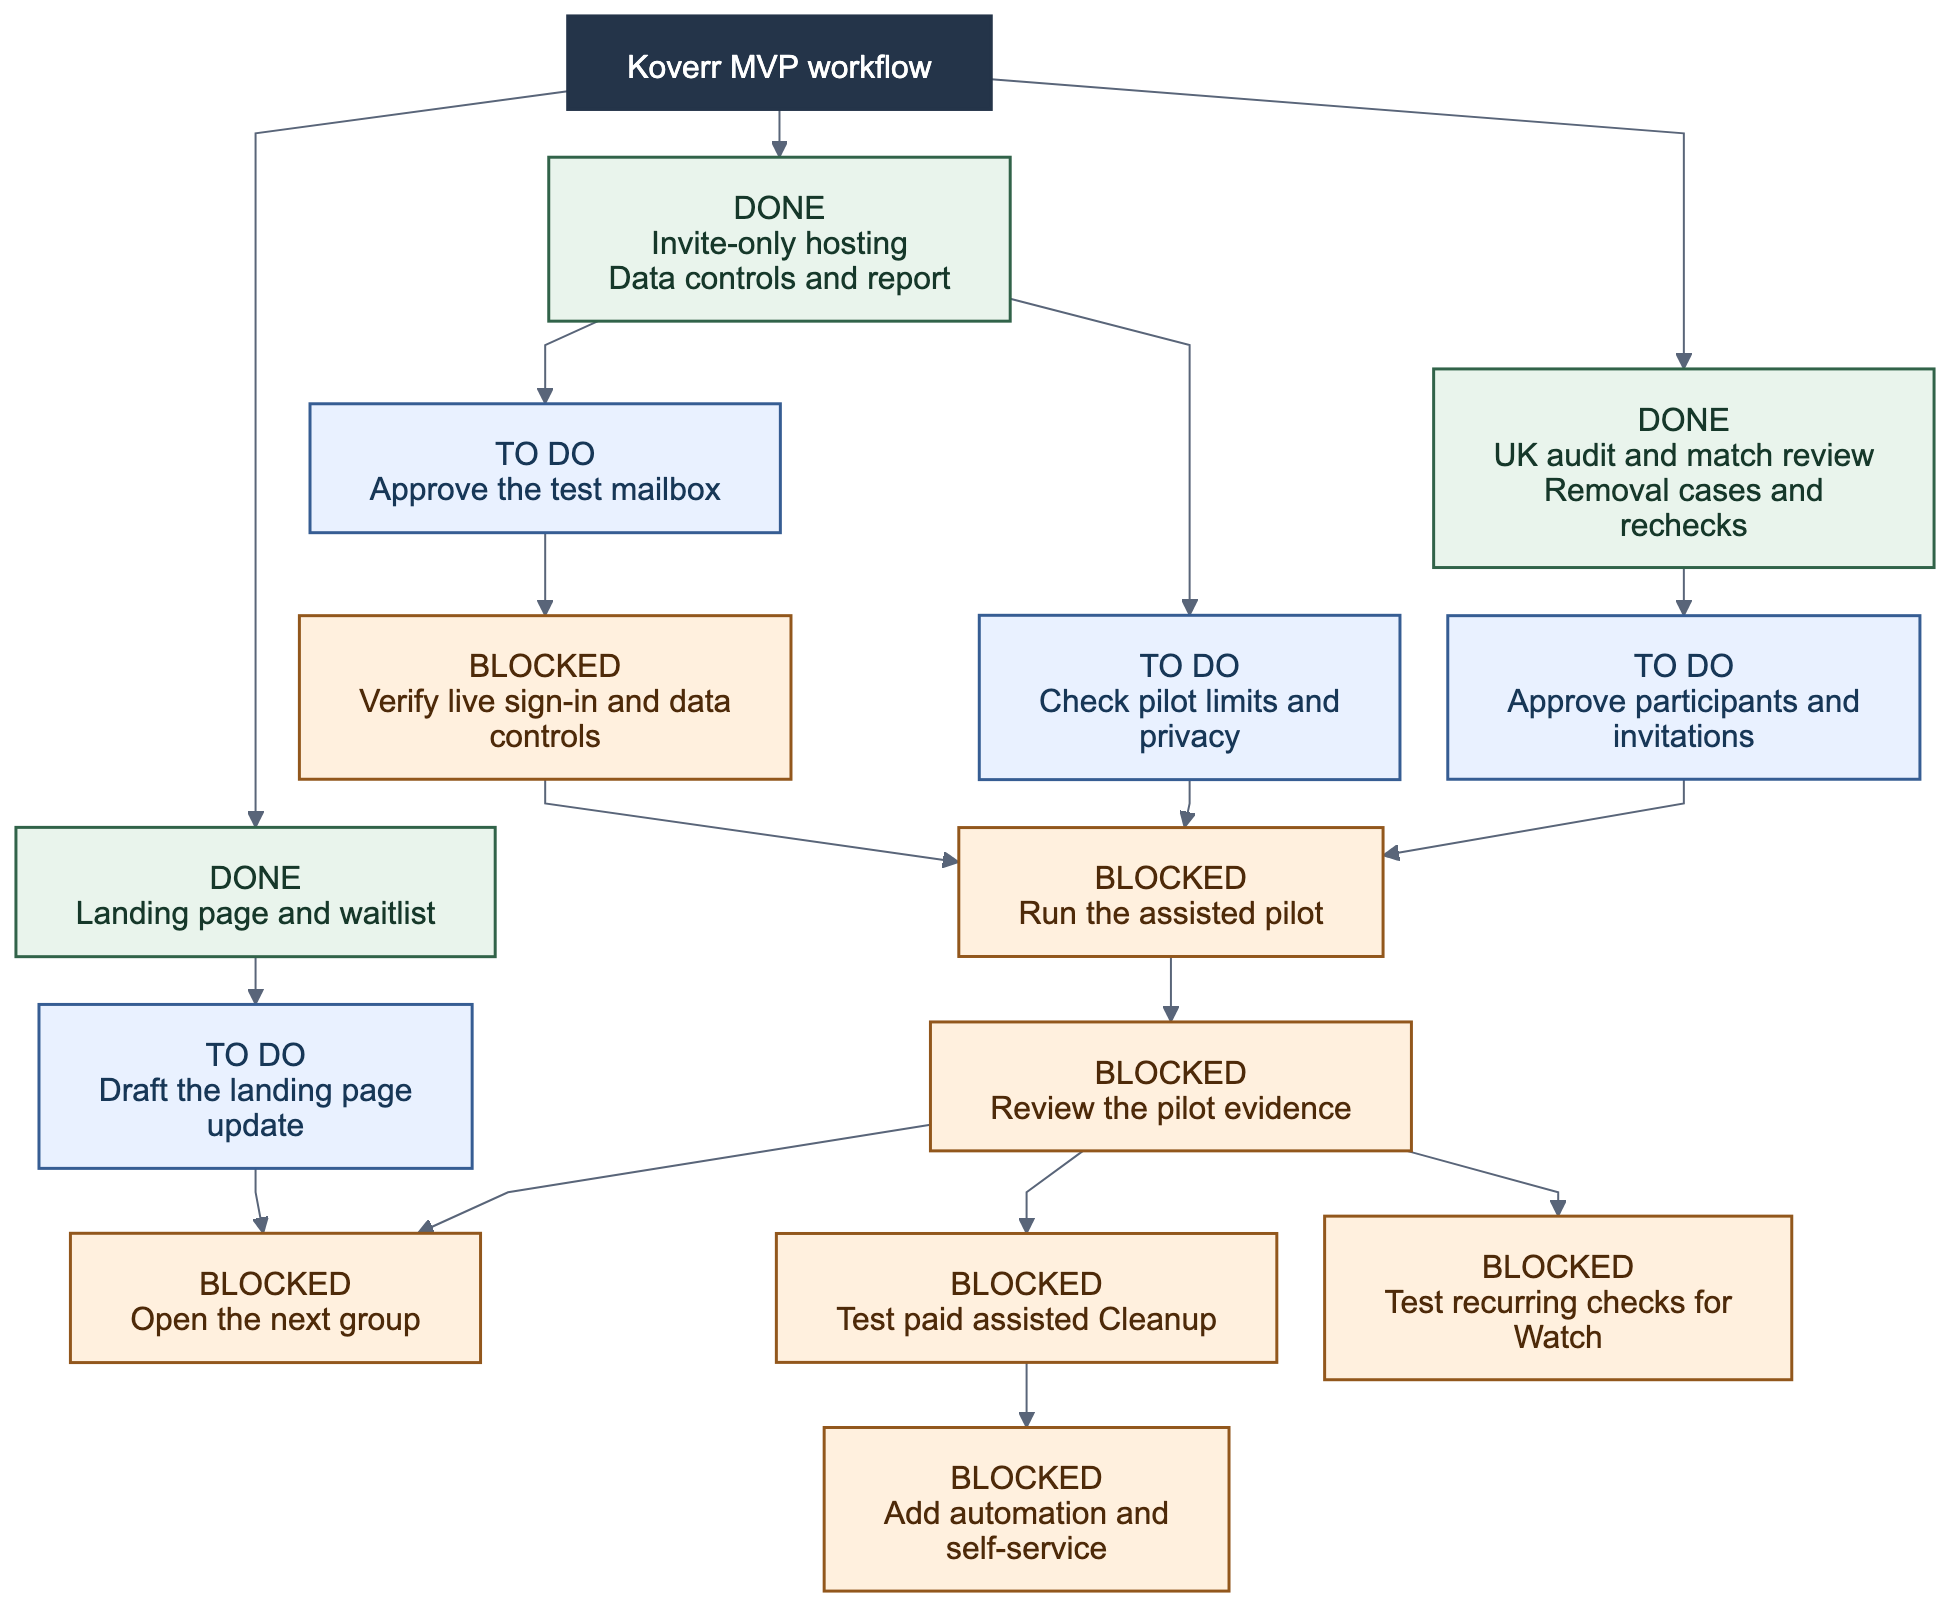
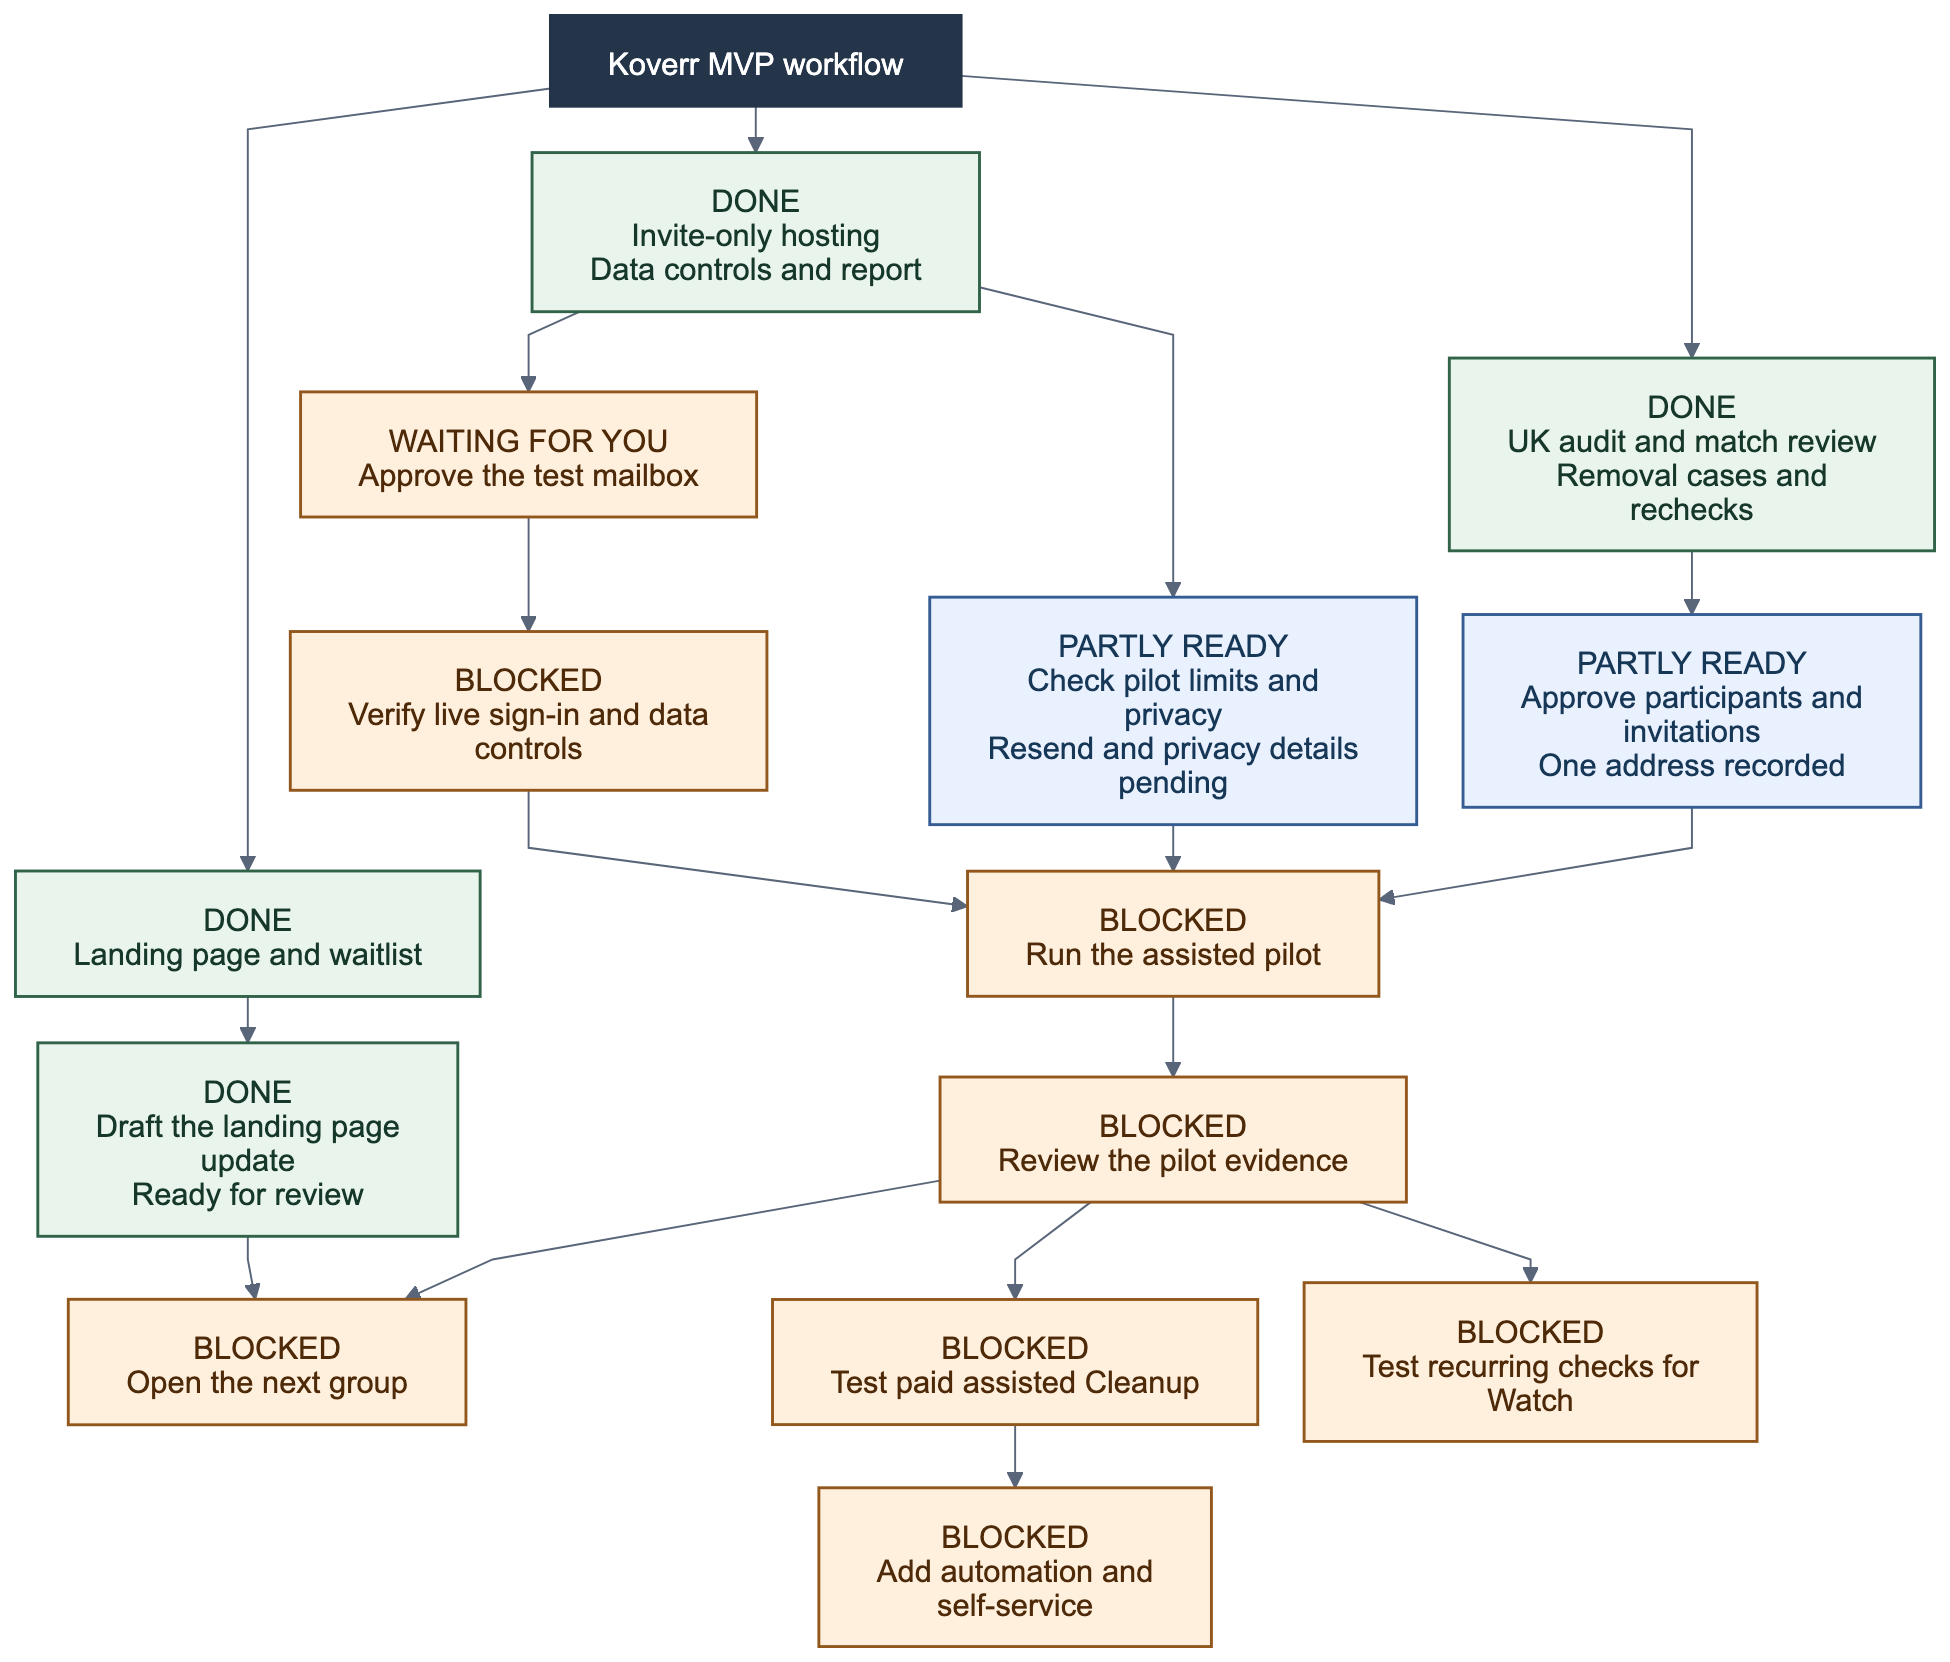
Record pilot readiness and draft the UK landing update

diff --git a/MVP/pilot-readiness.md b/MVP/pilot-readiness.md
@@ -1,0 +1,48 @@
+# Koverr pilot readiness review
+
+Checked on 24 November 2026. The invite-only app is live. The table shows the status of the four actions in the [MVP workflow](mvp-workflow.md).
+
+| Action | Status | Next input |
+| --- | --- | --- |
+| Approve the test mailbox | Waiting | Provide a separate address and approve one live sign-in code. |
+| Approve participants and invitations | One address recorded in the private shortlist. The invitation draft is ready. | Approve sending to that address after the test passes. Add further participants if you want a larger group. |
+| Check pilot limits and privacy | Cloudflare and Supabase checks are complete. Custom SMTP is enabled. The privacy review found gaps. | Confirm Resend usage. Confirm the privacy details and the ICO fee outcome. |
+| Draft the landing page update | Complete. The copy is ready for review. | Approve the copy before the next group opens. [Landing draft](landing-pilot-draft.md) |
+
+## Service checks
+
+| Service | What the dashboard showed | What to do |
+| --- | --- | --- |
+| Cloudflare Workers | The account showed 792 of 100,000 requests used that UTC day. | Use the existing Worker. Check the account limit again before adding a large group. [Cloudflare limits](https://developers.cloudflare.com/workers/platform/pricing/) |
+| Supabase | The project was healthy. Free-plan usage showed 27 of 500 MB of database storage and 0 of 50,000 monthly active users. | Use the existing project. Check its status on the day of the pilot. [Supabase pricing](https://supabase.com/pricing) |
+| Supabase Auth | Custom SMTP was on and used `smtp.resend.com`. Auth allows 30 emails per hour and a 60-second minimum interval per user. | Start with one test. Allow one resend if needed. Plan up to twelve code emails for one test mailbox and five participants with one retry each. [Auth rate limits](https://supabase.com/docs/guides/auth/rate-limits) |
+| Resend | The browser reached the login page. Current account usage and sender verification need an account check. The public Free plan lists 100 transactional emails a day and 3,000 a month. | Sign in to the existing account. Check transactional usage and confirm the sending domain shows Verified. Keep paid overages off. [Resend emails](https://resend.com/emails) · [Resend domains](https://resend.com/domains) · [Resend pricing](https://resend.com/pricing) |
+
+Use the existing inbox for manual invitations. Reserve Resend for sign-in codes. The pilot target is £0 in additional service charges, within the existing plan limits.
+
+## Privacy notice review
+
+The published notice explains email verification, saved audit information, the 90-day audit expiry, and account export and deletion. It names Supabase and Resend. The instructions direct invited users to reply to their invitation. [Published notice](https://koverr-mvp.uceiond.workers.dev/app/privacy/)
+
+Confirm these details before recruiting the participant group.
+
+| Item | What you need to confirm |
+| --- | --- |
+| Controller and contact | Give the legal name of the person or organisation that runs Koverr. Give a monitored privacy address that users can reach without an invitation. |
+| Use of personal data | Confirm the purposes and lawful basis for account operation, the audit, and pilot measurement. Check the retention period for roster entries, provider logs, and backups. |
+| Providers and user rights | Confirm which providers receive data and whether any transfers need to be described. Add the route to exercise privacy rights and contact the ICO. |
+| ICO fee | Complete the free self-assessment. Save the result. Follow the payment instructions if the fee applies. |
+
+Use the confirmed details to update the app privacy notice. The draft below covers the contact section.
+
+> Koverr is operated by [legal name]. Contact [monitored privacy email] if you have a question or want to exercise your data protection rights. You can also complain to the Information Commissioner’s Office. [Contact the ICO](https://ico.org.uk/make-a-complaint/)
+
+[ICO right to be informed](https://ico.org.uk/for-organisations/uk-gdpr-guidance-and-resources/individual-rights/individual-rights/right-to-be-informed/) · [ICO fee self-assessment](https://ico.org.uk/for-organisations/data-protection-fee/data-protection-fee-self-assessment/)
+
+## Decisions for the next pass
+
+1. **Approve the test mailbox** to unblock **Verify live sign-in and data controls**.
+2. **Approve participants and invitations** and **Check pilot limits and privacy** to unblock **Run the assisted pilot** after the live test.
+3. **Review the pilot evidence** before you open the next group or decide on paid Cleanup. Review the landing draft in parallel.
+
+[Full dependency table](mvp-workflow.md#blocked-work) · [Pilot invitation draft](pilot-preparation.md#draft-invitation-for-the-assisted-pilot) · [Live test instructions](deploy/live-pilot.md#verify-one-controlled-account)

diff --git a/MVP/landing-pilot-draft.md b/MVP/landing-pilot-draft.md
@@ -1,0 +1,74 @@
+# Landing page copy for the UK pilot
+
+Draft for review on 24 November 2026. Use this copy on the existing landing page when the pilot can accept the next group. The draft uses the existing waitlist for public visitors and the invite-only audit for approved participants.
+
+## Hero
+
+**Page title**
+
+Free UK public information audit | Koverr
+
+**Headline**
+
+See where your personal details appear online.
+
+**Intro**
+
+Koverr guides you through a free check of selected UK public listings. If you find your details, get the official removal steps and track what happens next.
+
+**Primary action**
+
+Join the launch list
+
+**Form note**
+
+Places are limited during the UK pilot. We use your email to send an invitation. [How we use your email](/privacy/)
+
+**Signup confirmation**
+
+You’re on the launch list. We’ll email you when a pilot place is available.
+
+## How the pilot works
+
+1. **Check selected sources.** Start with 192.com and ukphonebook.com. The deeper check also covers Google Search. You enter your search terms on each site.
+2. **Review a possible match.** Compare the listing with your own details. Mark a match as yours only if you can confirm it.
+3. **Take action.** Use the official removal form. Record the request, reply, and any follow-up in Koverr.
+
+## Pilot questions
+
+**Where is the pilot available?**
+
+The pilot is for people in the UK. You need a pilot invitation and an email code to sign in.
+
+**Which sources does Koverr check?**
+
+The free audit covers selected public sources. Each source controls the details it makes available. If a source blocks a check, you can record a coverage gap.
+
+**Who sends the removal request?**
+
+You submit the request on the organisation’s site. Koverr shows you the official steps and helps you record the outcome. The organisation decides how to respond.
+
+**What happens when I find no matches?**
+
+You can record that the sites you checked showed no matches. A listing can still appear elsewhere.
+
+## Footer signup
+
+**Heading**
+
+Join the UK pilot list.
+
+**Text**
+
+Leave your email for an invitation to the free assisted audit.
+
+**Button**
+
+Join the launch list
+
+## Placement and release
+
+- Use the hero copy for the main `director` variant. Use the updated FAQ and footer copy in the shared landing component.
+- Review the campaign introductions before applying the shared pilot copy. They currently describe broader features.
+- Keep the fictional label on the sample record. Label any record about another source as an example.
+- Use the existing launch-list form for public signup. Use the live audit link in approved invitations. [Live audit](https://koverr-mvp.uceiond.workers.dev/app/audit/)

diff --git a/MVP/mvp-workflow.md b/MVP/mvp-workflow.md
@@ -23,6 +23,8 @@ A user can also use the free password checker. The pilot makes zero paid search 
 
 ## To do now
 
+One participant address is on the private shortlist. The landing copy is ready. See the [pilot readiness review](pilot-readiness.md) for the remaining approvals and the dashboard results.
+
 ### Approve the test mailbox
 
 1. Choose one email address that you control and can open during the test. Use an address reserved for testing if possible.
@@ -48,6 +50,8 @@ A user can also use the free password checker. The pilot makes zero paid search 
 
 ### Draft the landing page update
 
+The [landing page draft](landing-pilot-draft.md) is ready for review.
+
 1. Describe a free assisted UK exposure audit. State the source limits.
 2. Keep the early-access signup for general visitors. Give the direct audit link to approved participants.
 3. Prepare the revised call to action for the next group. Publish the wider change after you approve the next group.
@@ -63,7 +67,7 @@ The items in the last column use the same names as the diagram. Start with the f
 | Verify live sign-in and data controls | The live test needs one approved mailbox. | [Approve the test mailbox](#approve-the-test-mailbox) |
 | Run the assisted pilot | The sessions need verified sign-in, approved recipients, and pilot operating checks. | [Verify live sign-in and data controls](#verify-live-sign-in-and-data-controls) · [Approve participants and invitations](#approve-participants-and-invitations) · [Check pilot limits and privacy](#check-pilot-limits-and-privacy) |
 | Review the pilot evidence | The report has no participant results. | [Run the assisted pilot](#run-the-assisted-pilot) |
-| Open the next group | The first evidence review must support expansion. The landing message needs the right invitation path. | [Review the pilot evidence](#review-the-pilot-evidence) · [Draft the landing page update](#draft-the-landing-page-update) |
+| Open the next group | The first evidence review must support expansion. The draft needs approval before publication. | [Review the pilot evidence](#review-the-pilot-evidence) · [Approve the landing page draft](landing-pilot-draft.md) |
 | Test paid assisted Cleanup | The pilot must show useful outcomes and demand for help. | [Review the pilot evidence](#review-the-pilot-evidence) |
 | Add automation and self-service | Reliable results, repeated work, and sustainable founder time are still unproven. | [Test paid assisted Cleanup](#test-paid-assisted-cleanup) |
 | Test recurring checks for Watch | The pilot has no evidence that rechecks provide recurring value. | [Review the pilot evidence](#review-the-pilot-evidence) |

diff --git a/MVP/pilot-preparation.md b/MVP/pilot-preparation.md
@@ -34,7 +34,7 @@ Hi [first name],
 
 I am inviting you to try Koverr's free UK exposure audit. I can help you check a short list of public websites and find the official steps to remove a listing.
 
-Open [pilot address]. Enter your invited email address, then enter the six-digit code. You choose the sites to check and submit any requests yourself. Koverr can keep a record of the requests and what happens next.
+Open the Koverr audit. Enter the email address that received this invitation. Then enter the six-digit code. [Open the Koverr audit](https://koverr-mvp.uceiond.workers.dev/app/audit/) You choose the sites to check and submit any requests yourself. Koverr can keep a record of the requests and what happens next.
 
 Reply if you want to arrange an assisted session. Keep your password and sign-in codes private.
 

diff --git a/MVP/handover.md b/MVP/handover.md
@@ -41,7 +41,7 @@ The deeper audit also covers Experian marketing suppression and the open elector
 
 ## Development diagram
 
-[Full MVP workflow and blocker guide](mvp-workflow.md)
+[Full MVP workflow and blocker guide](mvp-workflow.md) · [Pilot readiness review](pilot-readiness.md) · [Landing page draft](landing-pilot-draft.md)
 
 ![Koverr MVP deployment and the next three milestones](diagrams/mvp-development.svg)
 
